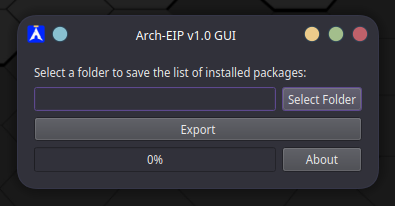
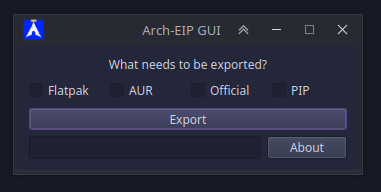
GUI Version 1.2-dev3
Changes:
- Added correct application of native KDE dark theme to windows, added dark theme test support in GNOME
- Improved window sizes
- Added a little logging to the console for some actions
- Fixed errors when displaying a window with an export error
- Removed redundant code

diff --git a/gui.py b/gui.py
@@ -17,16 +17,14 @@
 # along with this program.  If not, see <https://www.gnu.org/licenses/>.
 
 import os
-from pathlib import Path
 import subprocess
 from PySide6.QtWidgets import QApplication, QSizePolicy, QLabel, QPushButton, QVBoxLayout, QHBoxLayout, QFileDialog, \
     QLineEdit, QDialog, QMessageBox, QProgressBar, QDialogButtonBox, QCheckBox
 from PySide6.QtGui import QIcon
 from PySide6.QtCore import QTimer, QThread, Signal, Slot, Qt
 
-version = "1.2-dev2-1"
+version = "1.2-dev3"
 version_console = "1.2"
-# folder_name = ""
 checked = []
 
 class AboutDialog(QDialog):
@@ -56,19 +54,16 @@ class AboutDialog(QDialog):
         self.setLayout(main_layout)
 
 def write_to_file(commands, file):
-    # file_path = f"{folder_name}/{file}.txt"
     file_path = f"{file}.txt"
     try:
         with open(file_path, "w") as f:
-            subprocess.run(commands, shell=True, stdout=f, text=True)
+            print(subprocess.run(commands, shell=True, stdout=f, text=True))
     except Exception as e:
         msg_error = QMessageBox()
         msg_error.setIcon(QMessageBox.Critical)
         msg_error.setText(f"Error: {e}")
         msg_error.setWindowTitle("Error")
-        msg_error.exec_()
-        with open(file_path, "w") as f:
-            f.write("No packages or package manager found!")
+        msg_error.exec()
 
 def export():
     if checked[0]:
@@ -98,21 +93,10 @@ class ExportDialog(QDialog):
         self.setWindowFlags(Qt.WindowCloseButtonHint | Qt.WindowMinimizeButtonHint | Qt.WindowMaximizeButtonHint | Qt.WindowContextHelpButtonHint)
         self.setWindowTitle("Arch-EIP GUI")
         self.setWindowIcon(QIcon("icon.png"))
-        # width = 420
-        # height = 180
-        width = 350
-        height = 130
+        width = 340
+        height = 125
         self.setFixedSize(width, height)
         self.setSizePolicy(QSizePolicy.Preferred, QSizePolicy.Preferred)
-
-        # self.label = QLabel("Select a folder to save the list of installed packages:")
-        # self.label.setSizePolicy(QSizePolicy.Preferred, QSizePolicy.Preferred)
-
-        # self.folder_line_edit = QLineEdit()
-        # self.folder_line_edit.setReadOnly(True)
-
-        # self.select_folder_button = QPushButton("Select Folder")
-        # self.select_folder_button.clicked.connect(self.select_folder)
 
         self.ex_label = QLabel("What needs to be exported?")
         self.ex_label.setAlignment(Qt.AlignCenter)
@@ -133,9 +117,6 @@ class ExportDialog(QDialog):
         self.about_button = QPushButton("About")
         self.about_button.clicked.connect(self.about)
 
-        # folder_layout = QHBoxLayout()
-        # folder_layout.addWidget(self.folder_line_edit)
-        # folder_layout.addWidget(self.select_folder_button)
         checkboxes_layout = QHBoxLayout()
         checkboxes_layout.addWidget(self.flatpak_checkbox)
         checkboxes_layout.addWidget(self.aur_checkbox)
@@ -145,8 +126,6 @@ class ExportDialog(QDialog):
         down_layout.addWidget(self.progress_bar)
         down_layout.addWidget(self.about_button)
         main_layout = QVBoxLayout()
-        # main_layout.addWidget(self.label)
-        # main_layout.addLayout(folder_layout)
         main_layout.addWidget(self.ex_label)
         main_layout.addLayout(checkboxes_layout)
         main_layout.addWidget(self.export_button)
@@ -160,13 +139,6 @@ class ExportDialog(QDialog):
         about_dialog = AboutDialog()
         about_dialog.exec()
 
-    # def select_folder(self):
-    #     options = QFileDialog.Options()
-    #     options |= QFileDialog.ReadOnly
-    #     folder_name = QFileDialog.getExistingDirectory(self, "Select Folder", options=options)
-    #     if folder_name:
-    #         self.folder_line_edit.setText(folder_name)
-
     def operation_done(self):
         msg_success = QMessageBox()
         msg_success.setIcon(QMessageBox.Information)
@@ -177,14 +149,6 @@ class ExportDialog(QDialog):
         self.progress_bar.setMaximum(100)
 
     def btn_export(self):
-        # folder_name = self.folder_line_edit.text()
-        # if not folder_name:
-        #     msg_error = QMessageBox()
-        #     msg_error.setIcon(QMessageBox.Warning)
-        #     msg_error.setText("Please select a folder to save the list of installed packages!")
-        #     msg_error.setWindowTitle("Error")
-        #     msg_error.exec()
-        #     return
         if not self.flatpak_checkbox.isChecked() and not self.aur_checkbox.isChecked() and not self.official_checkbox.isChecked() and not self.pip_checkbox.isChecked():
             msg_error = QMessageBox()
             msg_error.setIcon(QMessageBox.Warning)
@@ -205,6 +169,28 @@ class ExportDialog(QDialog):
 
 if __name__ == "__main__":
     app = QApplication()
+    try:
+        app.setStyle('Fusion')
+        app.setPalette(PALETTE_DARK())
+    except:
+        pass
+    is_plasma = 'plasma' in os.environ.get('DESKTOP_SESSION', '')
+    try:
+        ret = subprocess.run(['gsettings', 'get', 'org.gnome.desktop.interface', 'color-scheme'], capture_output=True).stdout.decode('utf-8').strip().strip("'")
+        if ret == 'prefer-dark':
+            print("Dark theme selected")
+        else:
+            ret = subprocess.run(['gsettings', 'get', 'org.gnome.desktop.interface', 'gtk-theme'], capture_output=True).stdout.decode('utf-8').strip().strip("'").lower()
+            if ret.endswith('-dark') or ret == 'HighContrastInverse':
+                print("Dark theme selected")
+    except:
+        pass
+    if not is_plasma:
+        app.setStyle('Fusion')
+        if darkmode_enabled:
+            app.setPalette(PALETTE_DARK())
+        else:
+            app.setPalette(QStyleFactory.create('fusion').standardPalette())
     app.setWindowIcon(QIcon("icon.png"))
     export_dialog = ExportDialog()
     export_dialog.setWindowTitle(f"Arch-EIP GUI")
